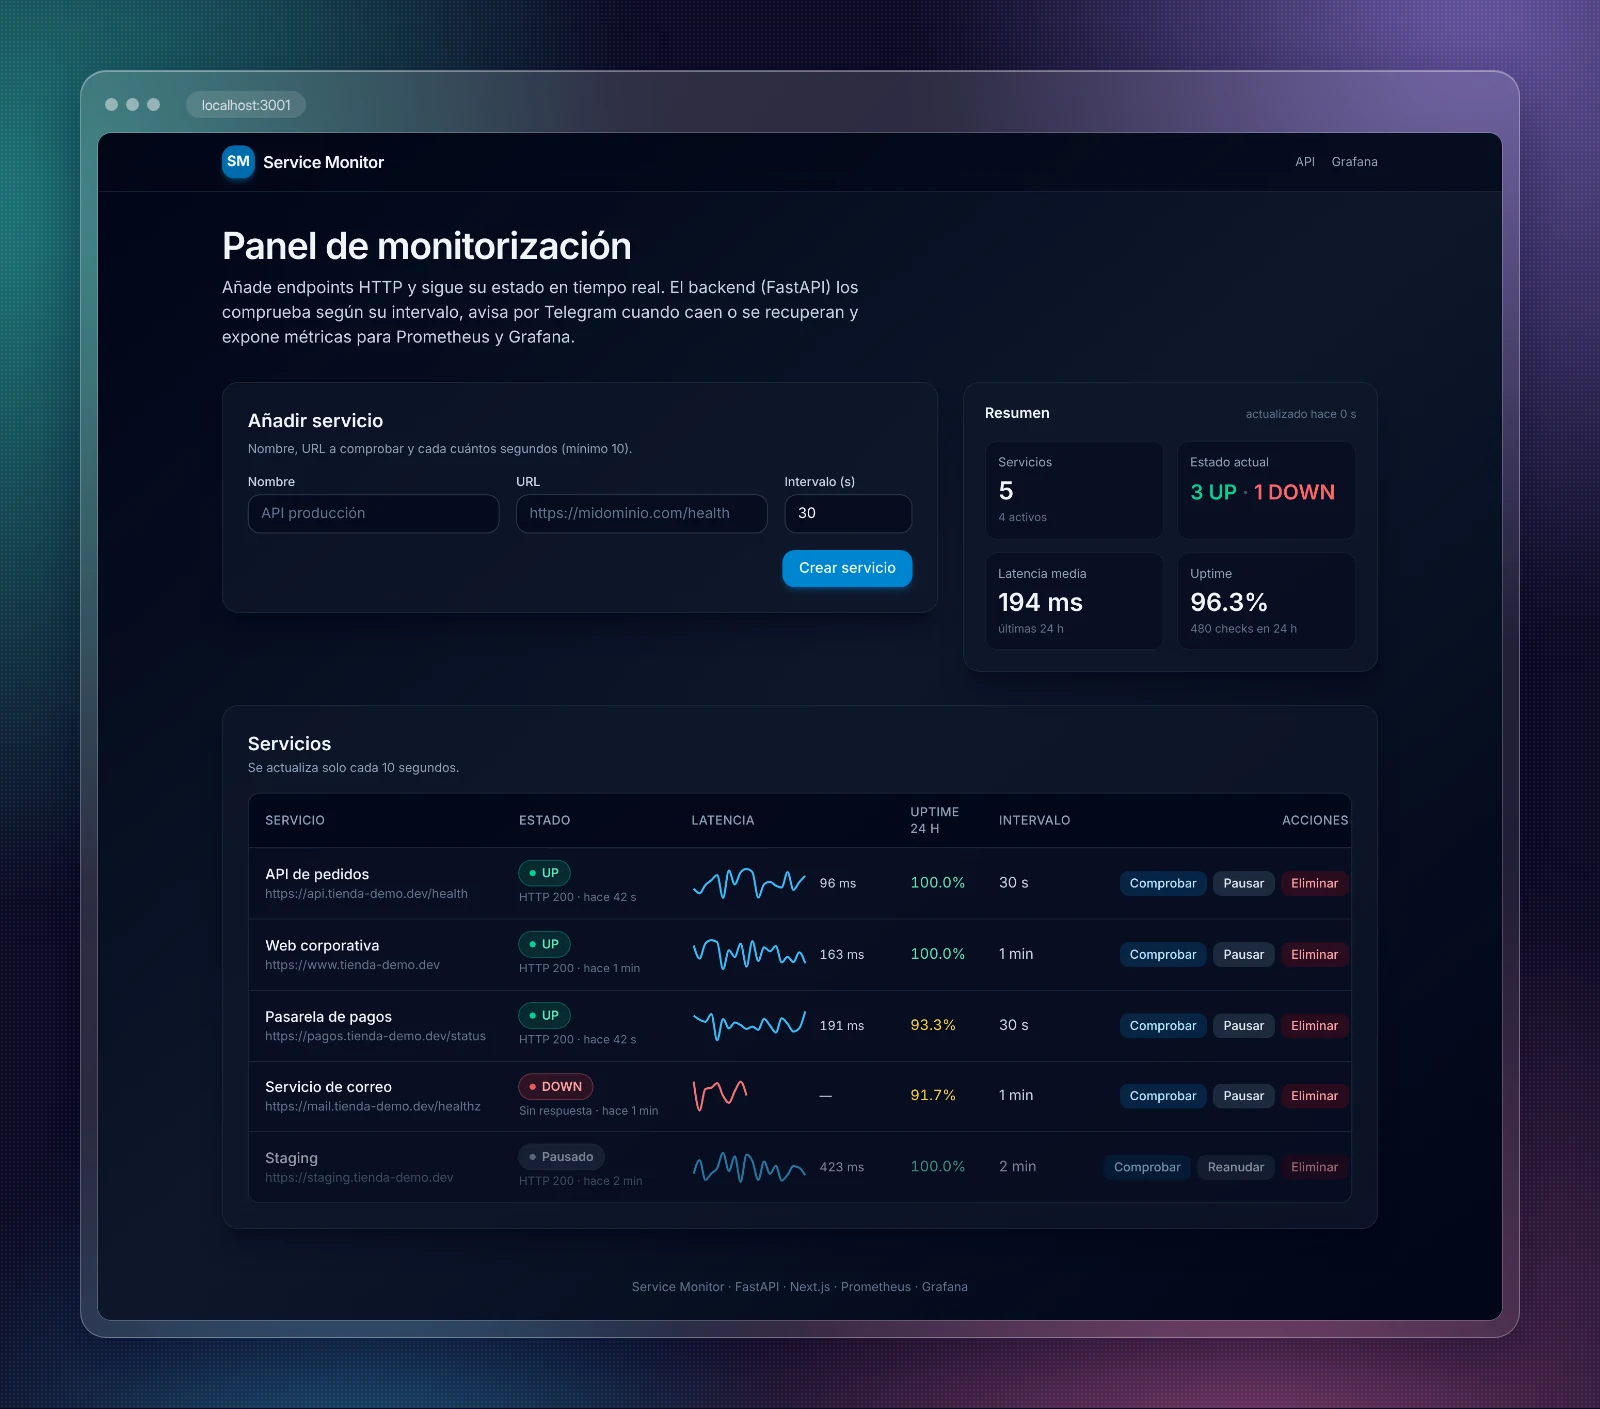
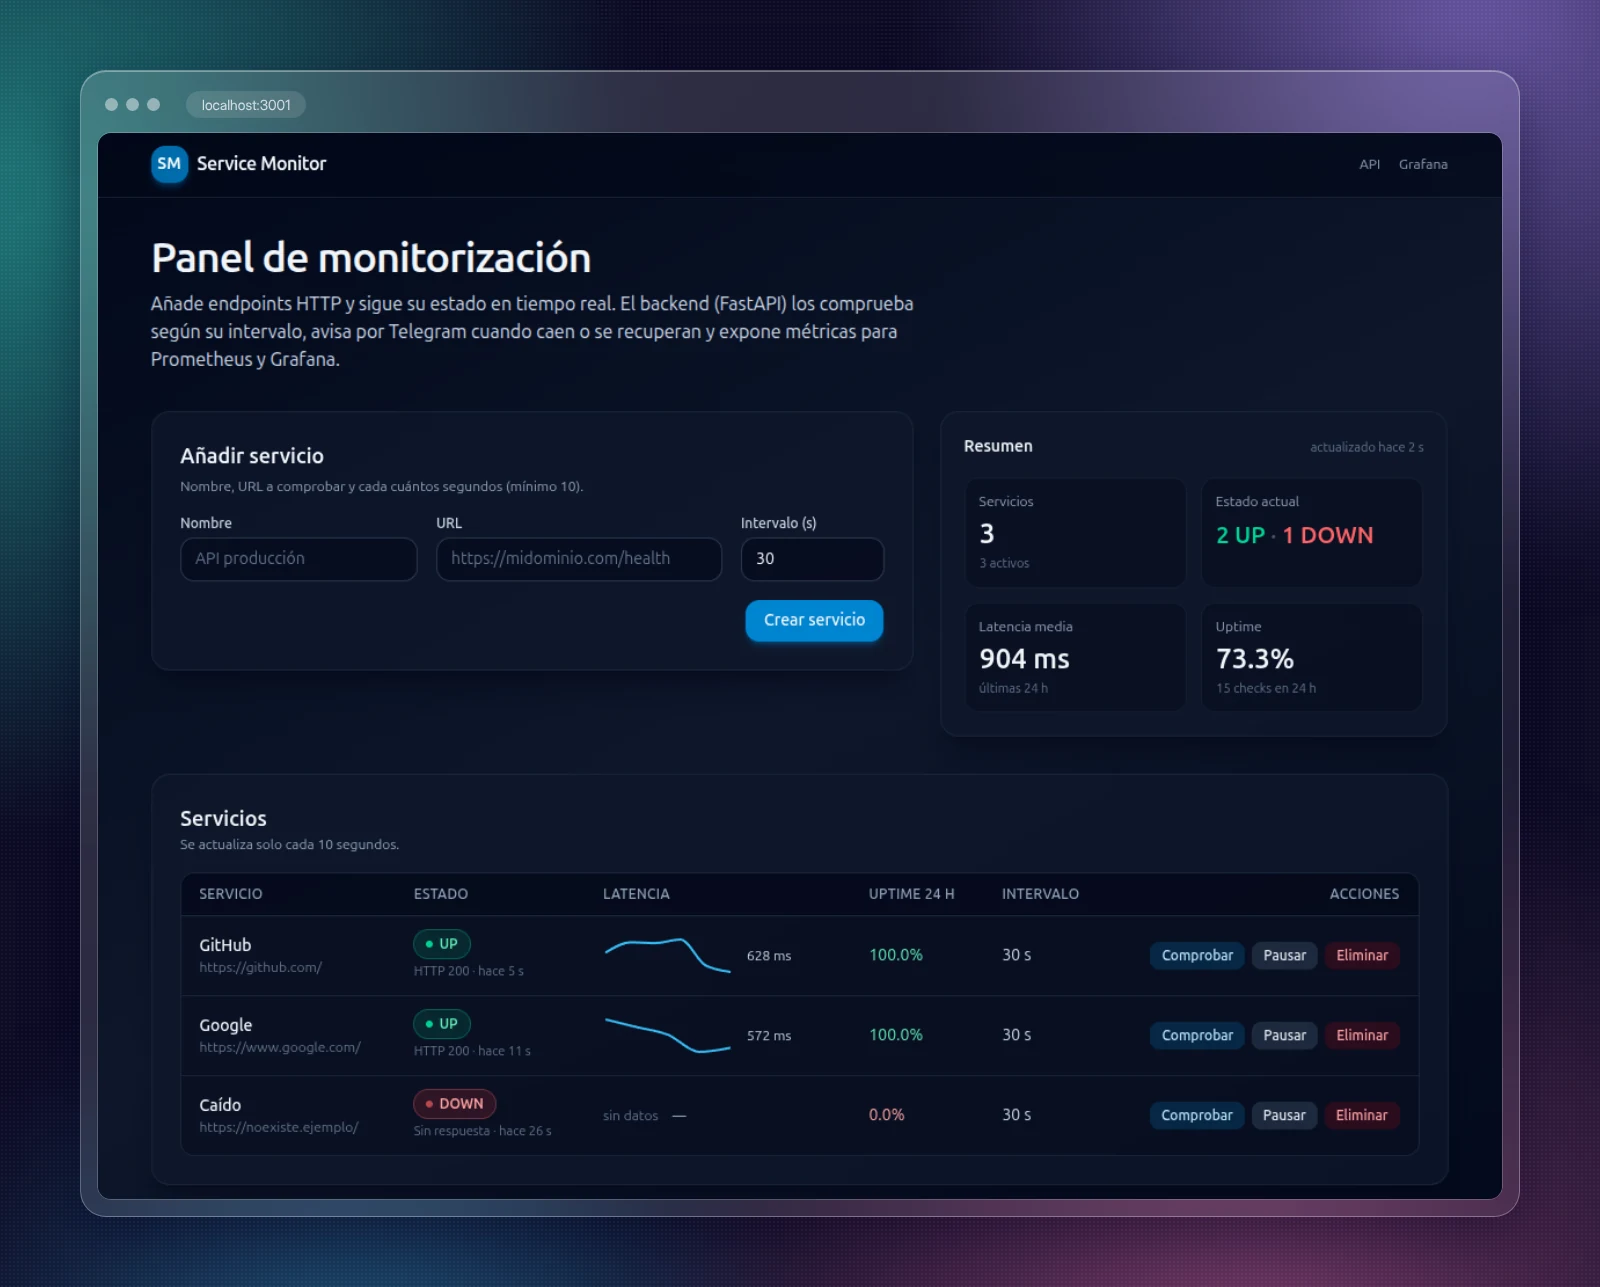
docs: capturas reales de Grafana, Prometheus y el panel; arregla el panel de alertas
- El panel "Alertas enviadas" usaba increase() y marcaba 0 con un contador recién creado:
  ahora muestra el total desde el arranque
- README con las capturas de la ejecución con docker compose

Claude-Session: https://claude.ai/code/session_01BjexJDNeun17wSwA3uCfw9

diff --git a/README.md b/README.md
@@ -39,7 +39,7 @@ el estado, cuándo se comprobó, la latencia de los últimos 20 checks y el upti
 En el detalle de cada servicio aparecen el uptime, la latencia media y p95, las gráficas de latencia y disponibilidad y
 la tabla de los últimos checks con su error.
 
-> Las capturas usan datos de ejemplo cargados en una base de datos local.
+> La captura del detalle usa datos de ejemplo; el resto son de una ejecución real con `docker compose up`.
 
 ## ✦ Arquitectura
 
@@ -59,6 +59,23 @@ la tabla de los últimos checks con su error.
   - `service_monitor_alerts_total`.
 
   Grafana arranca con la fuente de datos y el dashboard ya cargados.
+
+## ✦ Observabilidad
+
+<img src="docs/images/grafana.webp" alt="Dashboard de Grafana" width="100%">
+
+Grafana arranca con el dashboard **Service Monitor** ya cargado. Muestra:
+- servicios UP y DOWN;
+- latencia por servicio;
+- checks por minuto;
+- peticiones a la API.
+
+<img src="docs/images/prometheus-alertas.webp" alt="Alertas de Prometheus" width="100%">
+
+Prometheus evalúa tres reglas:
+- `ServicioCaido`: un servicio lleva más de 1 minuto caído. En la captura salta por un servicio caído a propósito.
+- `LatenciaAlta`: la latencia supera 1,5 s durante 5 minutos.
+- `MonitorSinDatos`: Prometheus no consigue leer `/metrics`.
 
 ## ✦ Alertas sin spam
 
